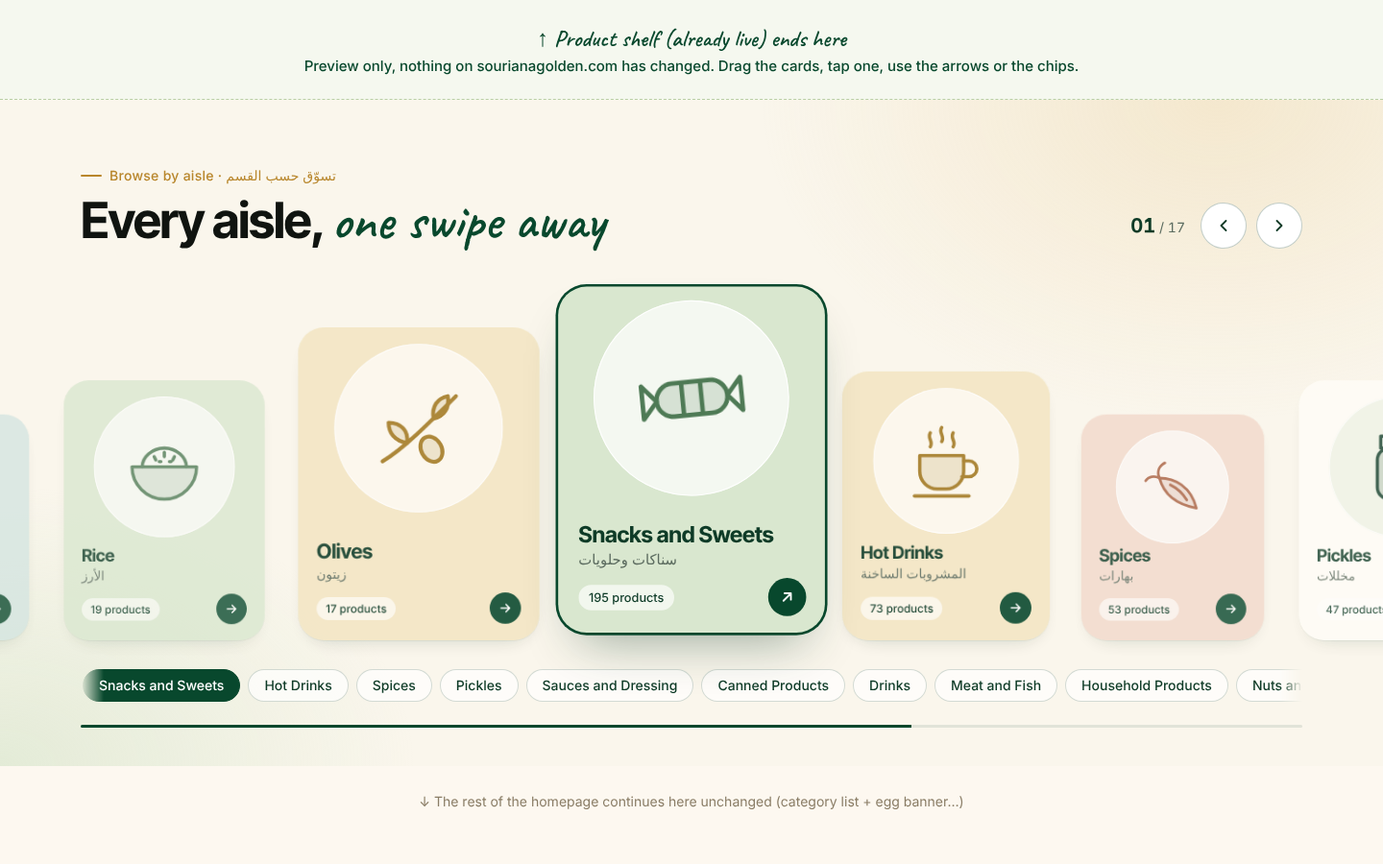
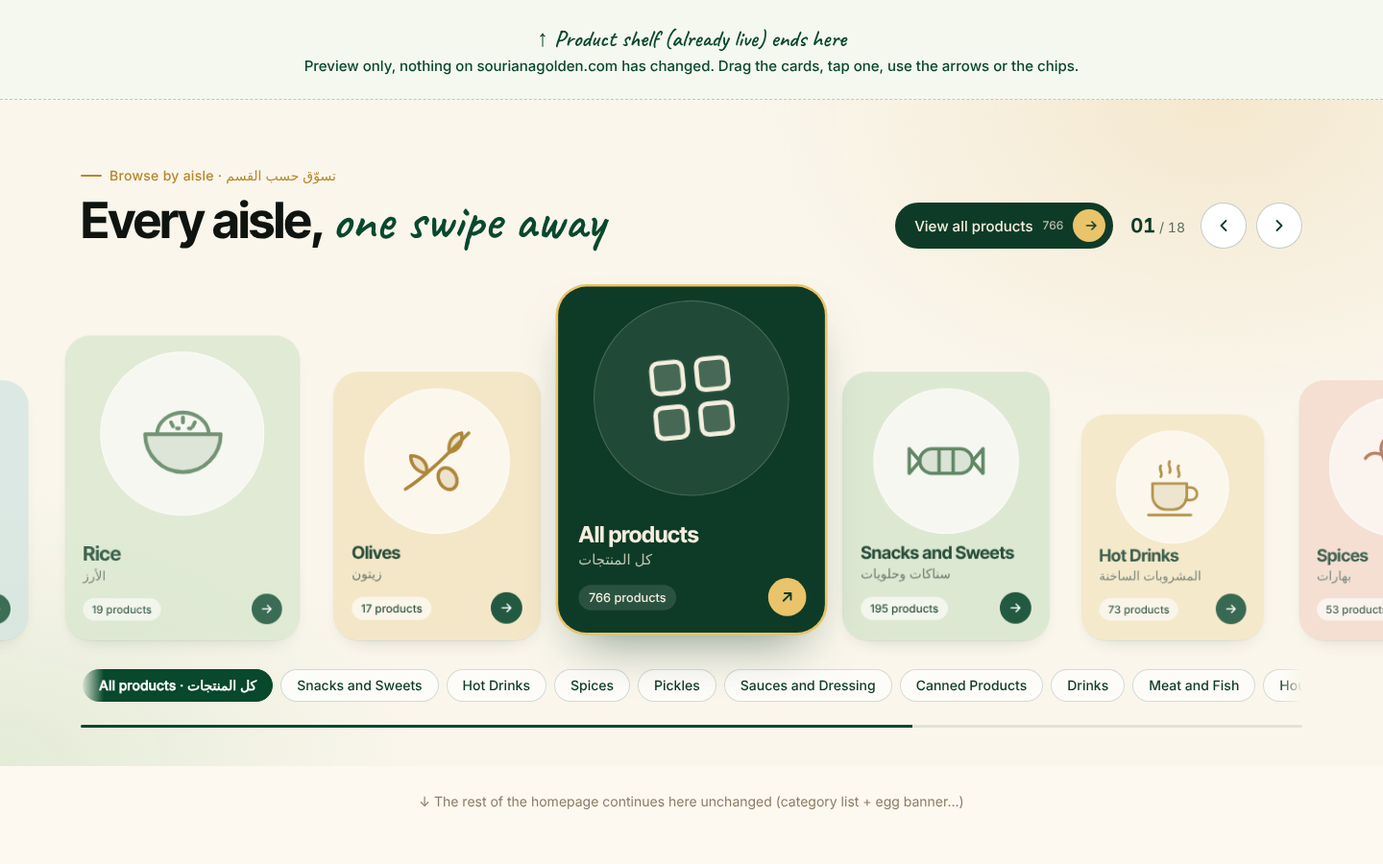
Aisles preview: All products card and header button (not deployed)
Claude-Session: https://claude.ai/code/session_014cGLw5qhmScv3qrpJ3Aqqw

diff --git a/category-carousel-preview.html b/category-carousel-preview.html
@@ -235,6 +235,11 @@
 	border-radius: 999px;
 	padding: 9px 16px;
 	font: 500 14px/1 "Inter", sans-serif;
+	text-transform: none !important;
+	letter-spacing: 0 !important;
+	min-height: 0;
+	height: auto;
+	box-shadow: none;
 	cursor: pointer;
 	white-space: nowrap;
 	transition: background .25s, color .25s, border-color .25s;
@@ -286,6 +291,68 @@
 	.sha-card.is-active .sha-blob svg { animation: none; }
 }
 
+/* ---------- "All products" card + header button ---------- */
+.sha-card.t-all { background: #0E3B27; --tone: #F4EEDF; color: #F4EEDF !important; overflow: hidden; }
+.sha-card.t-all::after {
+	content: "";
+	position: absolute;
+	top: 0;
+	left: -60%;
+	width: 45%;
+	height: 100%;
+	background: linear-gradient(100deg, transparent, rgba(255, 255, 255, .16), transparent);
+	transform: skewX(-18deg);
+	animation: sha-shine 3.6s ease-in-out infinite;
+	pointer-events: none;
+	border-radius: inherit;
+}
+@keyframes sha-shine { 55%, 100% { left: 130%; } }
+.sha-card.t-all .sha-blob { background: rgba(255, 255, 255, .08); box-shadow: inset 0 0 0 1px rgba(244, 238, 223, .18); }
+.sha-card.t-all .sha-en { color: #F4EEDF; }
+.sha-card.t-all .sha-ar { color: rgba(244, 238, 223, .75); }
+.sha-card.t-all .sha-n { background: rgba(255, 255, 255, .12); color: #F4EEDF; }
+.sha-card.t-all .sha-go { background: #E9C46A; }
+.sha-card.t-all .sha-go svg { stroke: #0E3B27; }
+.sha-card.t-all.is-active { box-shadow: 0 0 0 2.5px #E9C46A, 0 26px 50px -22px rgba(14, 59, 39, .55); }
+
+.sha .sha-all {
+	display: inline-flex;
+	align-items: center;
+	gap: 10px;
+	height: 48px;
+	padding: 0 8px 0 20px;
+	margin-right: 8px;
+	border-radius: 999px;
+	background: #0E3B27;
+	color: #F4EEDF !important;
+	font: 500 15px/1 "Inter", sans-serif;
+	text-decoration: none !important;
+	white-space: nowrap;
+	transition: background .2s, transform .2s;
+}
+.sha .sha-all:hover { background: #08482D; transform: translateY(-2px); }
+.sha-all small { font-size: 12px; opacity: .7; }
+.sha-all-ic {
+	width: 34px;
+	height: 34px;
+	border-radius: 50%;
+	display: grid;
+	place-items: center;
+	background: #E9C46A;
+}
+.sha-all-ic svg { width: 16px; height: 16px; fill: none; stroke: #0E3B27; stroke-width: 2.4; stroke-linecap: round; stroke-linejoin: round; animation: sha-nudge 1.6s ease-in-out infinite; }
+@keyframes sha-nudge { 50% { transform: translateX(3px); } }
+.sha .sha-chip.sha-chip-all { font-weight: 600; }
+
+@media (max-width: 820px) {
+	.sha .sha-all { height: 42px; padding-left: 16px; font-size: 14px; margin-right: auto; }
+	.sha-all small { display: none; }
+	.sha-count { display: none; }
+}
+@media (prefers-reduced-motion: reduce) {
+	.sha-card.t-all::after, .sha-all-ic svg { animation: none; }
+}
+
 </style></head><body>
 <div class="note"><b>↑ Product shelf (already live) ends here</b><br>Preview only, nothing on sourianagolden.com has changed. Drag the cards, tap one, use the arrows or the chips.</div>
 <section id="sha" class="sha" aria-label="Shop by category">
@@ -293,12 +360,12 @@
  <div class="sha-head">
   <div><p class="sha-kicker">Browse by aisle · تسوّق حسب القسم</p>
   <h2 class="sha-title">Every aisle, <em>one swipe away</em></h2></div>
-  <div class="sha-nav"><span class="sha-count"><b>01</b> / 17</span>
+  <div class="sha-nav"><a class="sha-all" href="#">View all products <small>766</small><span class="sha-all-ic"><svg viewBox="0 0 24 24"><path d="M5 12h14M13 6l6 6-6 6"/></svg></span></a><span class="sha-count"><b>01</b> / 18</span>
    <button type="button" class="sha-arrow sha-prev" aria-label="Previous category"><svg viewBox="0 0 24 24"><path d="M15 6l-6 6 6 6"/></svg></button>
    <button type="button" class="sha-arrow sha-next" aria-label="Next category"><svg viewBox="0 0 24 24"><path d="M9 6l6 6-6 6"/></svg></button></div>
  </div>
- <div class="sha-stage" tabindex="0" role="list"><a class="sha-card s0 t0" href="#" draggable="false" aria-label="Snacks and Sweets"><span class="sha-blob"><svg viewBox="0 0 48 48" aria-hidden="true"><path class="f" d="M16 17h16a7 7 0 0 1 0 14H16a7 7 0 0 1 0-14z"/><path d="M16 17h16a7 7 0 0 1 0 14H16a7 7 0 0 1 0-14z"/><path d="M9 24 3 17v14zM39 24l6-7v14z"/><path d="M20 17.5v13M28 17.5v13"/></svg></span><span class="sha-meta"><span class="sha-en">Snacks and Sweets</span><span class="sha-ar">سناكات وحلويات</span><span class="sha-foot"><span class="sha-n">195 products</span><span class="sha-go"><svg viewBox="0 0 24 24"><path d="M5 12h14M13 6l6 6-6 6"/></svg></span></span></span></a><a class="sha-card s1 t1" href="#" draggable="false" aria-label="Hot Drinks"><span class="sha-blob"><svg viewBox="0 0 48 48" aria-hidden="true"><path class="f" d="M9 21h25v9a10 10 0 0 1-10 10h-5A10 10 0 0 1 9 30z"/><path d="M9 21h25v9a10 10 0 0 1-10 10h-5A10 10 0 0 1 9 30z"/><path d="M34 24h3a4.5 4.5 0 0 1 0 9h-4"/><path d="M15 8c-2 3 2 5 0 8M21.5 5c-2 3 2 5 0 8M28 8c-2 3 2 5 0 8"/><path d="M6 44h31"/></svg></span><span class="sha-meta"><span class="sha-en">Hot Drinks</span><span class="sha-ar">المشروبات الساخنة</span><span class="sha-foot"><span class="sha-n">73 products</span><span class="sha-go"><svg viewBox="0 0 24 24"><path d="M5 12h14M13 6l6 6-6 6"/></svg></span></span></span></a><a class="sha-card s2 t2" href="#" draggable="false" aria-label="Spices"><span class="sha-blob"><svg viewBox="0 0 48 48" aria-hidden="true"><path class="f" d="M14 17c11 0 23 6 27 22-11-2-23-7-27-22z"/><path d="M14 17c11 0 23 6 27 22-11-2-23-7-27-22z"/><path d="M14 17c-2-5 0-9 4-11M14 17c-4-2-8-1-10 2"/><path d="M22 22c4 2 9 6 12 11"/></svg></span><span class="sha-meta"><span class="sha-en">Spices</span><span class="sha-ar">بهارات</span><span class="sha-foot"><span class="sha-n">53 products</span><span class="sha-go"><svg viewBox="0 0 24 24"><path d="M5 12h14M13 6l6 6-6 6"/></svg></span></span></span></a><a class="sha-card s1 t3" href="#" draggable="false" aria-label="Pickles"><span class="sha-blob"><svg viewBox="0 0 48 48" aria-hidden="true"><rect class="f" x="11" y="13" width="26" height="30" rx="7"/><rect x="11" y="13" width="26" height="30" rx="7"/><path d="M13 6h22v7H13z"/><path d="M18 23c5-1 11 5 12 13"/><path d="M21 28h.01M25 32h.01M23 25h.01"/></svg></span><span class="sha-meta"><span class="sha-en">Pickles</span><span class="sha-ar">مخللات</span><span class="sha-foot"><span class="sha-n">47 products</span><span class="sha-go"><svg viewBox="0 0 24 24"><path d="M5 12h14M13 6l6 6-6 6"/></svg></span></span></span></a><a class="sha-card s0 t4" href="#" draggable="false" aria-label="Sauces and Dressing"><span class="sha-blob"><svg viewBox="0 0 48 48" aria-hidden="true"><path class="f" d="M20 16h8l4 8v16a4 4 0 0 1-4 4h-8a4 4 0 0 1-4-4V24z"/><path d="M20 16h8l4 8v16a4 4 0 0 1-4 4h-8a4 4 0 0 1-4-4V24z"/><path d="M21 4h6v12h-6z"/><path d="M16.5 30h15M16.5 37h15"/></svg></span><span class="sha-meta"><span class="sha-en">Sauces and Dressing</span><span class="sha-ar">صلصات وتتبيلات</span><span class="sha-foot"><span class="sha-n">42 products</span><span class="sha-go"><svg viewBox="0 0 24 24"><path d="M5 12h14M13 6l6 6-6 6"/></svg></span></span></span></a><a class="sha-card s1 t0" href="#" draggable="false" aria-label="Canned Products"><span class="sha-blob"><svg viewBox="0 0 48 48" aria-hidden="true"><ellipse cx="24" cy="11" rx="12" ry="4"/><path class="f" d="M12 11v26c0 2.2 5.4 4 12 4s12-1.8 12-4V11"/><path d="M12 11v26c0 2.2 5.4 4 12 4s12-1.8 12-4V11"/><path d="M12 19c0 2.2 5.4 4 12 4s12-1.8 12-4M12 30c0 2.2 5.4 4 12 4s12-1.8 12-4"/></svg></span><span class="sha-meta"><span class="sha-en">Canned Products</span><span class="sha-ar">المعلبات</span><span class="sha-foot"><span class="sha-n">40 products</span><span class="sha-go"><svg viewBox="0 0 24 24"><path d="M5 12h14M13 6l6 6-6 6"/></svg></span></span></span></a><a class="sha-card s2 t1" href="#" draggable="false" aria-label="Drinks"><span class="sha-blob"><svg viewBox="0 0 48 48" aria-hidden="true"><path class="f" d="M13 16h22l-3 27H16z"/><path d="M13 16h22l-3 27H16z"/><path d="M26 16l4-12h6"/><path d="M14.2 24h19.6"/><path d="M21 31h.01M26 36h.01M24 28h.01"/></svg></span><span class="sha-meta"><span class="sha-en">Drinks</span><span class="sha-ar">المشروبات</span><span class="sha-foot"><span class="sha-n">39 products</span><span class="sha-go"><svg viewBox="0 0 24 24"><path d="M5 12h14M13 6l6 6-6 6"/></svg></span></span></span></a><a class="sha-card s1 t2" href="#" draggable="false" aria-label="Meat and Fish"><span class="sha-blob"><svg viewBox="0 0 48 48" aria-hidden="true"><path class="f" d="M5 24c6-9 19-12 29-4l9-6v20l-9-6C24 36 11 33 5 24z"/><path d="M5 24c6-9 19-12 29-4l9-6v20l-9-6C24 36 11 33 5 24z"/><path d="M14 22h.01"/><path d="M21 17c2.5 4.5 2.5 9.5 0 14"/></svg></span><span class="sha-meta"><span class="sha-en">Meat and Fish</span><span class="sha-ar">لحوم وأسماك</span><span class="sha-foot"><span class="sha-n">39 products</span><span class="sha-go"><svg viewBox="0 0 24 24"><path d="M5 12h14M13 6l6 6-6 6"/></svg></span></span></span></a><a class="sha-card s0 t3" href="#" draggable="false" aria-label="Household Products"><span class="sha-blob"><svg viewBox="0 0 48 48" aria-hidden="true"><path class="f" d="M15 20h15v20a4 4 0 0 1-4 4h-7a4 4 0 0 1-4-4z"/><path d="M15 20h15v20a4 4 0 0 1-4 4h-7a4 4 0 0 1-4-4z"/><path d="M18 20v-6h9v6M18 14l-1-7h15l4 4h-8"/><path d="M40 8l3-2M40 12h4M40 16l3 2"/></svg></span><span class="sha-meta"><span class="sha-en">Household Products</span><span class="sha-ar">منتجات منزلية</span><span class="sha-foot"><span class="sha-n">36 products</span><span class="sha-go"><svg viewBox="0 0 24 24"><path d="M5 12h14M13 6l6 6-6 6"/></svg></span></span></span></a><a class="sha-card s1 t4" href="#" draggable="false" aria-label="Nuts and Seeds"><span class="sha-blob"><svg viewBox="0 0 48 48" aria-hidden="true"><path class="f" d="M24 4c10 8 12 24 0 40C12 28 14 12 24 4z"/><path d="M24 4c10 8 12 24 0 40C12 28 14 12 24 4z"/><path d="M24 11v27M24 18l-4-3M24 25l4-3M24 32l-4-3"/></svg></span><span class="sha-meta"><span class="sha-en">Nuts and Seeds</span><span class="sha-ar">مكسرات وبذور</span><span class="sha-foot"><span class="sha-n">34 products</span><span class="sha-go"><svg viewBox="0 0 24 24"><path d="M5 12h14M13 6l6 6-6 6"/></svg></span></span></span></a><a class="sha-card s2 t0" href="#" draggable="false" aria-label="Dairy Products"><span class="sha-blob"><svg viewBox="0 0 48 48" aria-hidden="true"><path class="f" d="M13 18l5-8h12l5 8v25H13z"/><path d="M13 18l5-8h12l5 8v25H13z"/><path d="M18 10V4h12v6M13 18h22"/><path d="M18.5 29c3.5-3.5 7.5-3.5 11 0"/></svg></span><span class="sha-meta"><span class="sha-en">Dairy Products</span><span class="sha-ar">منتجات الألبان</span><span class="sha-foot"><span class="sha-n">30 products</span><span class="sha-go"><svg viewBox="0 0 24 24"><path d="M5 12h14M13 6l6 6-6 6"/></svg></span></span></span></a><a class="sha-card s1 t1" href="#" draggable="false" aria-label="Dried Products"><span class="sha-blob"><svg viewBox="0 0 48 48" aria-hidden="true"><path class="f" d="M24 6c8 0 12 9 12 19s-5 17-12 17-12-7-12-17S16 6 24 6z"/><path d="M24 6c8 0 12 9 12 19s-5 17-12 17-12-7-12-17S16 6 24 6z"/><path d="M20 14c-2 6-2 14 1 22M28 12c2 4 3 9 2 14"/></svg></span><span class="sha-meta"><span class="sha-en">Dried Products</span><span class="sha-ar">التمور والمجففات</span><span class="sha-foot"><span class="sha-n">27 products</span><span class="sha-go"><svg viewBox="0 0 24 24"><path d="M5 12h14M13 6l6 6-6 6"/></svg></span></span></span></a><a class="sha-card s0 t2" href="#" draggable="false" aria-label="Jam"><span class="sha-blob"><svg viewBox="0 0 48 48" aria-hidden="true"><rect class="f" x="11" y="15" width="26" height="28" rx="6"/><rect x="11" y="15" width="26" height="28" rx="6"/><path d="M9 9h30v6H9z"/><path d="M24 23c-5 0-6 5-4 9s4 5 4 5 2-1 4-5 1-9-4-9z"/><path d="M22 22l2-3 2 3"/></svg></span><span class="sha-meta"><span class="sha-en">Jam</span><span class="sha-ar">مربيات</span><span class="sha-foot"><span class="sha-n">21 products</span><span class="sha-go"><svg viewBox="0 0 24 24"><path d="M5 12h14M13 6l6 6-6 6"/></svg></span></span></span></a><a class="sha-card s1 t3" href="#" draggable="false" aria-label="Grains and Cereals"><span class="sha-blob"><svg viewBox="0 0 48 48" aria-hidden="true"><path d="M24 45V12"/><path class="f" d="M24 12c-4-3-4-7-2-10 3 2 4 6 2 10z"/><path d="M24 12c-4-3-4-7-2-10 3 2 4 6 2 10z"/><path d="M24 21c-6 0-9-3-10-7 5 0 9 2 10 7zM24 21c6 0 9-3 10-7-5 0-9 2-10 7zM24 30c-6 0-9-3-10-7 5 0 9 2 10 7zM24 30c6 0 9-3 10-7-5 0-9 2-10 7zM24 39c-6 0-9-3-10-7 5 0 9 2 10 7zM24 39c6 0 9-3 10-7-5 0-9 2-10 7z"/></svg></span><span class="sha-meta"><span class="sha-en">Grains and Cereals</span><span class="sha-ar">حبوب وبقوليات</span><span class="sha-foot"><span class="sha-n">20 products</span><span class="sha-go"><svg viewBox="0 0 24 24"><path d="M5 12h14M13 6l6 6-6 6"/></svg></span></span></span></a><a class="sha-card s2 t4" href="#" draggable="false" aria-label="Tahini and Halva"><span class="sha-blob"><svg viewBox="0 0 48 48" aria-hidden="true"><path class="f" d="M8 28l16-12 16 12-16 12z"/><path d="M8 28l16-12 16 12-16 12z"/><path d="M8 28v6l16 12 16-12v-6M24 40v6"/><path d="M18 26l4 2M26 22l4 2M22 32l4 2"/></svg></span><span class="sha-meta"><span class="sha-en">Tahini and Halva</span><span class="sha-ar">طحينة وحلاوة</span><span class="sha-foot"><span class="sha-n">19 products</span><span class="sha-go"><svg viewBox="0 0 24 24"><path d="M5 12h14M13 6l6 6-6 6"/></svg></span></span></span></a><a class="sha-card s1 t0" href="#" draggable="false" aria-label="Rice"><span class="sha-blob"><svg viewBox="0 0 48 48" aria-hidden="true"><path class="f" d="M5 24h38a19 19 0 0 1-38 0z"/><path d="M5 24h38a19 19 0 0 1-38 0z"/><path d="M11 24c0-6 6-11 13-11s13 5 13 11"/><path d="M18 18l1 2M24 15.5v2.5M30 18l-1 2M21 21h1M27 21h1"/></svg></span><span class="sha-meta"><span class="sha-en">Rice</span><span class="sha-ar">الأرز</span><span class="sha-foot"><span class="sha-n">19 products</span><span class="sha-go"><svg viewBox="0 0 24 24"><path d="M5 12h14M13 6l6 6-6 6"/></svg></span></span></span></a><a class="sha-card s0 t1" href="#" draggable="false" aria-label="Olives"><span class="sha-blob"><svg viewBox="0 0 48 48" aria-hidden="true"><path d="M6 40C16 34 28 22 42 8"/><path class="f" d="M18 31c-6-1-9-5-9-10 6 0 10 4 9 10zM31 19c-1-6 2-10 7-11 1 6-2 10-7 11z"/><path d="M18 31c-6-1-9-5-9-10 6 0 10 4 9 10zM31 19c-1-6 2-10 7-11 1 6-2 10-7 11z"/><ellipse class="f" cx="30" cy="34" rx="5" ry="6.5" transform="rotate(-30 30 34)"/><ellipse cx="30" cy="34" rx="5" ry="6.5" transform="rotate(-30 30 34)"/></svg></span><span class="sha-meta"><span class="sha-en">Olives</span><span class="sha-ar">زيتون</span><span class="sha-foot"><span class="sha-n">17 products</span><span class="sha-go"><svg viewBox="0 0 24 24"><path d="M5 12h14M13 6l6 6-6 6"/></svg></span></span></span></a></div>
- <div class="sha-chips"><button type="button" class="sha-chip">Snacks and Sweets</button><button type="button" class="sha-chip">Hot Drinks</button><button type="button" class="sha-chip">Spices</button><button type="button" class="sha-chip">Pickles</button><button type="button" class="sha-chip">Sauces and Dressing</button><button type="button" class="sha-chip">Canned Products</button><button type="button" class="sha-chip">Drinks</button><button type="button" class="sha-chip">Meat and Fish</button><button type="button" class="sha-chip">Household Products</button><button type="button" class="sha-chip">Nuts and Seeds</button><button type="button" class="sha-chip">Dairy Products</button><button type="button" class="sha-chip">Dried Products</button><button type="button" class="sha-chip">Jam</button><button type="button" class="sha-chip">Grains and Cereals</button><button type="button" class="sha-chip">Tahini and Halva</button><button type="button" class="sha-chip">Rice</button><button type="button" class="sha-chip">Olives</button></div>
+ <div class="sha-stage" tabindex="0" role="list"><a class="sha-card s0 t-all" href="#" draggable="false" aria-label="All products"><span class="sha-blob"><svg viewBox="0 0 48 48" aria-hidden="true"><path class="f" d="M8 8h13v13H8zM27 8h13v13H27zM8 27h13v13H8zM27 27h13v13H27z"/><rect x="8" y="8" width="13" height="13" rx="3"/><rect x="27" y="8" width="13" height="13" rx="3"/><rect x="8" y="27" width="13" height="13" rx="3"/><rect x="27" y="27" width="13" height="13" rx="3"/></svg></span><span class="sha-meta"><span class="sha-en">All products</span><span class="sha-ar">كل المنتجات</span><span class="sha-foot"><span class="sha-n">766 products</span><span class="sha-go"><svg viewBox="0 0 24 24"><path d="M5 12h14M13 6l6 6-6 6"/></svg></span></span></span></a><a class="sha-card s1 t0" href="#" draggable="false" aria-label="Snacks and Sweets"><span class="sha-blob"><svg viewBox="0 0 48 48" aria-hidden="true"><path class="f" d="M16 17h16a7 7 0 0 1 0 14H16a7 7 0 0 1 0-14z"/><path d="M16 17h16a7 7 0 0 1 0 14H16a7 7 0 0 1 0-14z"/><path d="M9 24 3 17v14zM39 24l6-7v14z"/><path d="M20 17.5v13M28 17.5v13"/></svg></span><span class="sha-meta"><span class="sha-en">Snacks and Sweets</span><span class="sha-ar">سناكات وحلويات</span><span class="sha-foot"><span class="sha-n">195 products</span><span class="sha-go"><svg viewBox="0 0 24 24"><path d="M5 12h14M13 6l6 6-6 6"/></svg></span></span></span></a><a class="sha-card s2 t1" href="#" draggable="false" aria-label="Hot Drinks"><span class="sha-blob"><svg viewBox="0 0 48 48" aria-hidden="true"><path class="f" d="M9 21h25v9a10 10 0 0 1-10 10h-5A10 10 0 0 1 9 30z"/><path d="M9 21h25v9a10 10 0 0 1-10 10h-5A10 10 0 0 1 9 30z"/><path d="M34 24h3a4.5 4.5 0 0 1 0 9h-4"/><path d="M15 8c-2 3 2 5 0 8M21.5 5c-2 3 2 5 0 8M28 8c-2 3 2 5 0 8"/><path d="M6 44h31"/></svg></span><span class="sha-meta"><span class="sha-en">Hot Drinks</span><span class="sha-ar">المشروبات الساخنة</span><span class="sha-foot"><span class="sha-n">73 products</span><span class="sha-go"><svg viewBox="0 0 24 24"><path d="M5 12h14M13 6l6 6-6 6"/></svg></span></span></span></a><a class="sha-card s1 t2" href="#" draggable="false" aria-label="Spices"><span class="sha-blob"><svg viewBox="0 0 48 48" aria-hidden="true"><path class="f" d="M14 17c11 0 23 6 27 22-11-2-23-7-27-22z"/><path d="M14 17c11 0 23 6 27 22-11-2-23-7-27-22z"/><path d="M14 17c-2-5 0-9 4-11M14 17c-4-2-8-1-10 2"/><path d="M22 22c4 2 9 6 12 11"/></svg></span><span class="sha-meta"><span class="sha-en">Spices</span><span class="sha-ar">بهارات</span><span class="sha-foot"><span class="sha-n">53 products</span><span class="sha-go"><svg viewBox="0 0 24 24"><path d="M5 12h14M13 6l6 6-6 6"/></svg></span></span></span></a><a class="sha-card s0 t3" href="#" draggable="false" aria-label="Pickles"><span class="sha-blob"><svg viewBox="0 0 48 48" aria-hidden="true"><rect class="f" x="11" y="13" width="26" height="30" rx="7"/><rect x="11" y="13" width="26" height="30" rx="7"/><path d="M13 6h22v7H13z"/><path d="M18 23c5-1 11 5 12 13"/><path d="M21 28h.01M25 32h.01M23 25h.01"/></svg></span><span class="sha-meta"><span class="sha-en">Pickles</span><span class="sha-ar">مخللات</span><span class="sha-foot"><span class="sha-n">47 products</span><span class="sha-go"><svg viewBox="0 0 24 24"><path d="M5 12h14M13 6l6 6-6 6"/></svg></span></span></span></a><a class="sha-card s1 t4" href="#" draggable="false" aria-label="Sauces and Dressing"><span class="sha-blob"><svg viewBox="0 0 48 48" aria-hidden="true"><path class="f" d="M20 16h8l4 8v16a4 4 0 0 1-4 4h-8a4 4 0 0 1-4-4V24z"/><path d="M20 16h8l4 8v16a4 4 0 0 1-4 4h-8a4 4 0 0 1-4-4V24z"/><path d="M21 4h6v12h-6z"/><path d="M16.5 30h15M16.5 37h15"/></svg></span><span class="sha-meta"><span class="sha-en">Sauces and Dressing</span><span class="sha-ar">صلصات وتتبيلات</span><span class="sha-foot"><span class="sha-n">42 products</span><span class="sha-go"><svg viewBox="0 0 24 24"><path d="M5 12h14M13 6l6 6-6 6"/></svg></span></span></span></a><a class="sha-card s2 t0" href="#" draggable="false" aria-label="Canned Products"><span class="sha-blob"><svg viewBox="0 0 48 48" aria-hidden="true"><ellipse cx="24" cy="11" rx="12" ry="4"/><path class="f" d="M12 11v26c0 2.2 5.4 4 12 4s12-1.8 12-4V11"/><path d="M12 11v26c0 2.2 5.4 4 12 4s12-1.8 12-4V11"/><path d="M12 19c0 2.2 5.4 4 12 4s12-1.8 12-4M12 30c0 2.2 5.4 4 12 4s12-1.8 12-4"/></svg></span><span class="sha-meta"><span class="sha-en">Canned Products</span><span class="sha-ar">المعلبات</span><span class="sha-foot"><span class="sha-n">40 products</span><span class="sha-go"><svg viewBox="0 0 24 24"><path d="M5 12h14M13 6l6 6-6 6"/></svg></span></span></span></a><a class="sha-card s1 t1" href="#" draggable="false" aria-label="Drinks"><span class="sha-blob"><svg viewBox="0 0 48 48" aria-hidden="true"><path class="f" d="M13 16h22l-3 27H16z"/><path d="M13 16h22l-3 27H16z"/><path d="M26 16l4-12h6"/><path d="M14.2 24h19.6"/><path d="M21 31h.01M26 36h.01M24 28h.01"/></svg></span><span class="sha-meta"><span class="sha-en">Drinks</span><span class="sha-ar">المشروبات</span><span class="sha-foot"><span class="sha-n">39 products</span><span class="sha-go"><svg viewBox="0 0 24 24"><path d="M5 12h14M13 6l6 6-6 6"/></svg></span></span></span></a><a class="sha-card s0 t2" href="#" draggable="false" aria-label="Meat and Fish"><span class="sha-blob"><svg viewBox="0 0 48 48" aria-hidden="true"><path class="f" d="M5 24c6-9 19-12 29-4l9-6v20l-9-6C24 36 11 33 5 24z"/><path d="M5 24c6-9 19-12 29-4l9-6v20l-9-6C24 36 11 33 5 24z"/><path d="M14 22h.01"/><path d="M21 17c2.5 4.5 2.5 9.5 0 14"/></svg></span><span class="sha-meta"><span class="sha-en">Meat and Fish</span><span class="sha-ar">لحوم وأسماك</span><span class="sha-foot"><span class="sha-n">39 products</span><span class="sha-go"><svg viewBox="0 0 24 24"><path d="M5 12h14M13 6l6 6-6 6"/></svg></span></span></span></a><a class="sha-card s1 t3" href="#" draggable="false" aria-label="Household Products"><span class="sha-blob"><svg viewBox="0 0 48 48" aria-hidden="true"><path class="f" d="M15 20h15v20a4 4 0 0 1-4 4h-7a4 4 0 0 1-4-4z"/><path d="M15 20h15v20a4 4 0 0 1-4 4h-7a4 4 0 0 1-4-4z"/><path d="M18 20v-6h9v6M18 14l-1-7h15l4 4h-8"/><path d="M40 8l3-2M40 12h4M40 16l3 2"/></svg></span><span class="sha-meta"><span class="sha-en">Household Products</span><span class="sha-ar">منتجات منزلية</span><span class="sha-foot"><span class="sha-n">36 products</span><span class="sha-go"><svg viewBox="0 0 24 24"><path d="M5 12h14M13 6l6 6-6 6"/></svg></span></span></span></a><a class="sha-card s2 t4" href="#" draggable="false" aria-label="Nuts and Seeds"><span class="sha-blob"><svg viewBox="0 0 48 48" aria-hidden="true"><path class="f" d="M24 4c10 8 12 24 0 40C12 28 14 12 24 4z"/><path d="M24 4c10 8 12 24 0 40C12 28 14 12 24 4z"/><path d="M24 11v27M24 18l-4-3M24 25l4-3M24 32l-4-3"/></svg></span><span class="sha-meta"><span class="sha-en">Nuts and Seeds</span><span class="sha-ar">مكسرات وبذور</span><span class="sha-foot"><span class="sha-n">34 products</span><span class="sha-go"><svg viewBox="0 0 24 24"><path d="M5 12h14M13 6l6 6-6 6"/></svg></span></span></span></a><a class="sha-card s1 t0" href="#" draggable="false" aria-label="Dairy Products"><span class="sha-blob"><svg viewBox="0 0 48 48" aria-hidden="true"><path class="f" d="M13 18l5-8h12l5 8v25H13z"/><path d="M13 18l5-8h12l5 8v25H13z"/><path d="M18 10V4h12v6M13 18h22"/><path d="M18.5 29c3.5-3.5 7.5-3.5 11 0"/></svg></span><span class="sha-meta"><span class="sha-en">Dairy Products</span><span class="sha-ar">منتجات الألبان</span><span class="sha-foot"><span class="sha-n">30 products</span><span class="sha-go"><svg viewBox="0 0 24 24"><path d="M5 12h14M13 6l6 6-6 6"/></svg></span></span></span></a><a class="sha-card s0 t1" href="#" draggable="false" aria-label="Dried Products"><span class="sha-blob"><svg viewBox="0 0 48 48" aria-hidden="true"><path class="f" d="M24 6c8 0 12 9 12 19s-5 17-12 17-12-7-12-17S16 6 24 6z"/><path d="M24 6c8 0 12 9 12 19s-5 17-12 17-12-7-12-17S16 6 24 6z"/><path d="M20 14c-2 6-2 14 1 22M28 12c2 4 3 9 2 14"/></svg></span><span class="sha-meta"><span class="sha-en">Dried Products</span><span class="sha-ar">التمور والمجففات</span><span class="sha-foot"><span class="sha-n">27 products</span><span class="sha-go"><svg viewBox="0 0 24 24"><path d="M5 12h14M13 6l6 6-6 6"/></svg></span></span></span></a><a class="sha-card s1 t2" href="#" draggable="false" aria-label="Jam"><span class="sha-blob"><svg viewBox="0 0 48 48" aria-hidden="true"><rect class="f" x="11" y="15" width="26" height="28" rx="6"/><rect x="11" y="15" width="26" height="28" rx="6"/><path d="M9 9h30v6H9z"/><path d="M24 23c-5 0-6 5-4 9s4 5 4 5 2-1 4-5 1-9-4-9z"/><path d="M22 22l2-3 2 3"/></svg></span><span class="sha-meta"><span class="sha-en">Jam</span><span class="sha-ar">مربيات</span><span class="sha-foot"><span class="sha-n">21 products</span><span class="sha-go"><svg viewBox="0 0 24 24"><path d="M5 12h14M13 6l6 6-6 6"/></svg></span></span></span></a><a class="sha-card s2 t3" href="#" draggable="false" aria-label="Grains and Cereals"><span class="sha-blob"><svg viewBox="0 0 48 48" aria-hidden="true"><path d="M24 45V12"/><path class="f" d="M24 12c-4-3-4-7-2-10 3 2 4 6 2 10z"/><path d="M24 12c-4-3-4-7-2-10 3 2 4 6 2 10z"/><path d="M24 21c-6 0-9-3-10-7 5 0 9 2 10 7zM24 21c6 0 9-3 10-7-5 0-9 2-10 7zM24 30c-6 0-9-3-10-7 5 0 9 2 10 7zM24 30c6 0 9-3 10-7-5 0-9 2-10 7zM24 39c-6 0-9-3-10-7 5 0 9 2 10 7zM24 39c6 0 9-3 10-7-5 0-9 2-10 7z"/></svg></span><span class="sha-meta"><span class="sha-en">Grains and Cereals</span><span class="sha-ar">حبوب وبقوليات</span><span class="sha-foot"><span class="sha-n">20 products</span><span class="sha-go"><svg viewBox="0 0 24 24"><path d="M5 12h14M13 6l6 6-6 6"/></svg></span></span></span></a><a class="sha-card s1 t4" href="#" draggable="false" aria-label="Tahini and Halva"><span class="sha-blob"><svg viewBox="0 0 48 48" aria-hidden="true"><path class="f" d="M8 28l16-12 16 12-16 12z"/><path d="M8 28l16-12 16 12-16 12z"/><path d="M8 28v6l16 12 16-12v-6M24 40v6"/><path d="M18 26l4 2M26 22l4 2M22 32l4 2"/></svg></span><span class="sha-meta"><span class="sha-en">Tahini and Halva</span><span class="sha-ar">طحينة وحلاوة</span><span class="sha-foot"><span class="sha-n">19 products</span><span class="sha-go"><svg viewBox="0 0 24 24"><path d="M5 12h14M13 6l6 6-6 6"/></svg></span></span></span></a><a class="sha-card s0 t0" href="#" draggable="false" aria-label="Rice"><span class="sha-blob"><svg viewBox="0 0 48 48" aria-hidden="true"><path class="f" d="M5 24h38a19 19 0 0 1-38 0z"/><path d="M5 24h38a19 19 0 0 1-38 0z"/><path d="M11 24c0-6 6-11 13-11s13 5 13 11"/><path d="M18 18l1 2M24 15.5v2.5M30 18l-1 2M21 21h1M27 21h1"/></svg></span><span class="sha-meta"><span class="sha-en">Rice</span><span class="sha-ar">الأرز</span><span class="sha-foot"><span class="sha-n">19 products</span><span class="sha-go"><svg viewBox="0 0 24 24"><path d="M5 12h14M13 6l6 6-6 6"/></svg></span></span></span></a><a class="sha-card s1 t1" href="#" draggable="false" aria-label="Olives"><span class="sha-blob"><svg viewBox="0 0 48 48" aria-hidden="true"><path d="M6 40C16 34 28 22 42 8"/><path class="f" d="M18 31c-6-1-9-5-9-10 6 0 10 4 9 10zM31 19c-1-6 2-10 7-11 1 6-2 10-7 11z"/><path d="M18 31c-6-1-9-5-9-10 6 0 10 4 9 10zM31 19c-1-6 2-10 7-11 1 6-2 10-7 11z"/><ellipse class="f" cx="30" cy="34" rx="5" ry="6.5" transform="rotate(-30 30 34)"/><ellipse cx="30" cy="34" rx="5" ry="6.5" transform="rotate(-30 30 34)"/></svg></span><span class="sha-meta"><span class="sha-en">Olives</span><span class="sha-ar">زيتون</span><span class="sha-foot"><span class="sha-n">17 products</span><span class="sha-go"><svg viewBox="0 0 24 24"><path d="M5 12h14M13 6l6 6-6 6"/></svg></span></span></span></a></div>
+ <div class="sha-chips"><button type="button" class="sha-chip sha-chip-all">All products · كل المنتجات</button><button type="button" class="sha-chip">Snacks and Sweets</button><button type="button" class="sha-chip">Hot Drinks</button><button type="button" class="sha-chip">Spices</button><button type="button" class="sha-chip">Pickles</button><button type="button" class="sha-chip">Sauces and Dressing</button><button type="button" class="sha-chip">Canned Products</button><button type="button" class="sha-chip">Drinks</button><button type="button" class="sha-chip">Meat and Fish</button><button type="button" class="sha-chip">Household Products</button><button type="button" class="sha-chip">Nuts and Seeds</button><button type="button" class="sha-chip">Dairy Products</button><button type="button" class="sha-chip">Dried Products</button><button type="button" class="sha-chip">Jam</button><button type="button" class="sha-chip">Grains and Cereals</button><button type="button" class="sha-chip">Tahini and Halva</button><button type="button" class="sha-chip">Rice</button><button type="button" class="sha-chip">Olives</button></div>
  <div class="sha-bar"><i></i></div>
 </div></section>
 <div class="below">↓ The rest of the homepage continues here unchanged (category list + egg banner…)</div>

diff --git a/souriana-hero-shelf/assets/aisles.css b/souriana-hero-shelf/assets/aisles.css
@@ -282,3 +282,65 @@
 @media (prefers-reduced-motion: reduce) {
 	.sha-card.is-active .sha-blob svg { animation: none; }
 }
+
+/* ---------- "All products" card + header button ---------- */
+.sha-card.t-all { background: #0E3B27; --tone: #F4EEDF; color: #F4EEDF !important; overflow: hidden; }
+.sha-card.t-all::after {
+	content: "";
+	position: absolute;
+	top: 0;
+	left: -60%;
+	width: 45%;
+	height: 100%;
+	background: linear-gradient(100deg, transparent, rgba(255, 255, 255, .16), transparent);
+	transform: skewX(-18deg);
+	animation: sha-shine 3.6s ease-in-out infinite;
+	pointer-events: none;
+	border-radius: inherit;
+}
+@keyframes sha-shine { 55%, 100% { left: 130%; } }
+.sha-card.t-all .sha-blob { background: rgba(255, 255, 255, .08); box-shadow: inset 0 0 0 1px rgba(244, 238, 223, .18); }
+.sha-card.t-all .sha-en { color: #F4EEDF; }
+.sha-card.t-all .sha-ar { color: rgba(244, 238, 223, .75); }
+.sha-card.t-all .sha-n { background: rgba(255, 255, 255, .12); color: #F4EEDF; }
+.sha-card.t-all .sha-go { background: #E9C46A; }
+.sha-card.t-all .sha-go svg { stroke: #0E3B27; }
+.sha-card.t-all.is-active { box-shadow: 0 0 0 2.5px #E9C46A, 0 26px 50px -22px rgba(14, 59, 39, .55); }
+
+.sha .sha-all {
+	display: inline-flex;
+	align-items: center;
+	gap: 10px;
+	height: 48px;
+	padding: 0 8px 0 20px;
+	margin-right: 8px;
+	border-radius: 999px;
+	background: #0E3B27;
+	color: #F4EEDF !important;
+	font: 500 15px/1 "Inter", sans-serif;
+	text-decoration: none !important;
+	white-space: nowrap;
+	transition: background .2s, transform .2s;
+}
+.sha .sha-all:hover { background: #08482D; transform: translateY(-2px); }
+.sha-all small { font-size: 12px; opacity: .7; }
+.sha-all-ic {
+	width: 34px;
+	height: 34px;
+	border-radius: 50%;
+	display: grid;
+	place-items: center;
+	background: #E9C46A;
+}
+.sha-all-ic svg { width: 16px; height: 16px; fill: none; stroke: #0E3B27; stroke-width: 2.4; stroke-linecap: round; stroke-linejoin: round; animation: sha-nudge 1.6s ease-in-out infinite; }
+@keyframes sha-nudge { 50% { transform: translateX(3px); } }
+.sha .sha-chip.sha-chip-all { font-weight: 600; }
+
+@media (max-width: 820px) {
+	.sha .sha-all { height: 42px; padding-left: 16px; font-size: 14px; margin-right: auto; }
+	.sha-all small { display: none; }
+	.sha-count { display: none; }
+}
+@media (prefers-reduced-motion: reduce) {
+	.sha-card.t-all::after, .sha-all-ic svg { animation: none; }
+}
